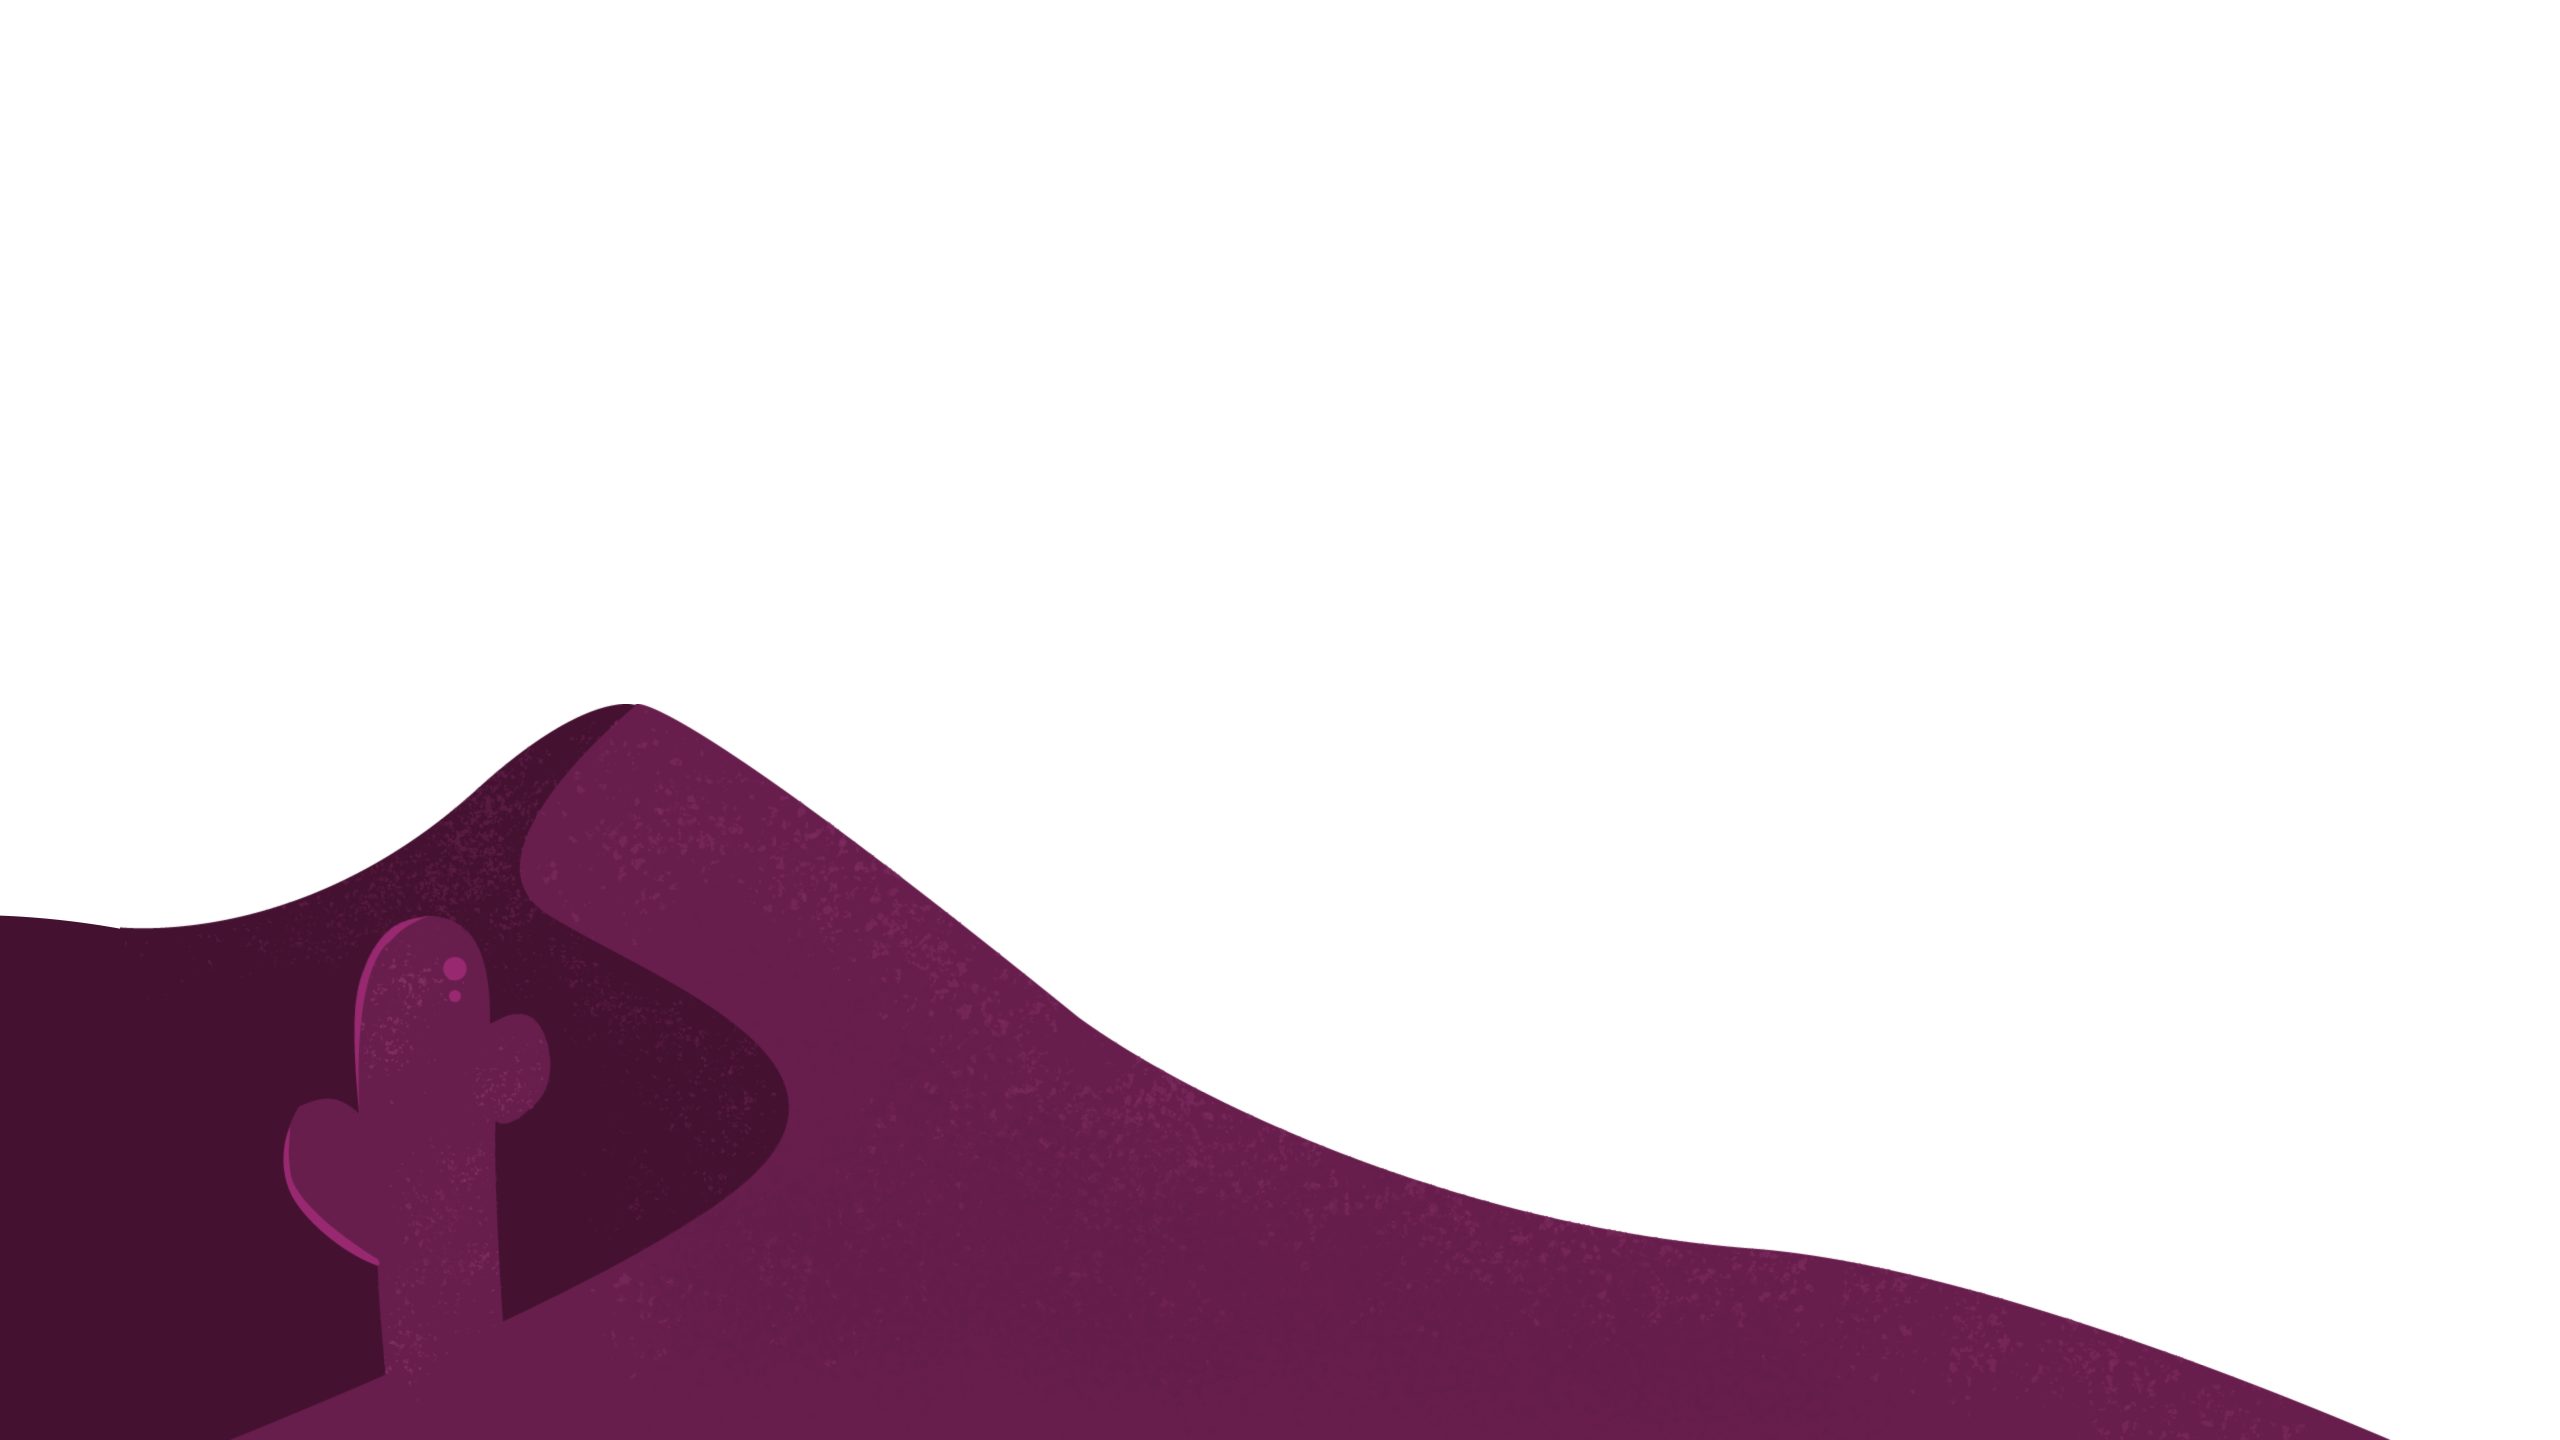
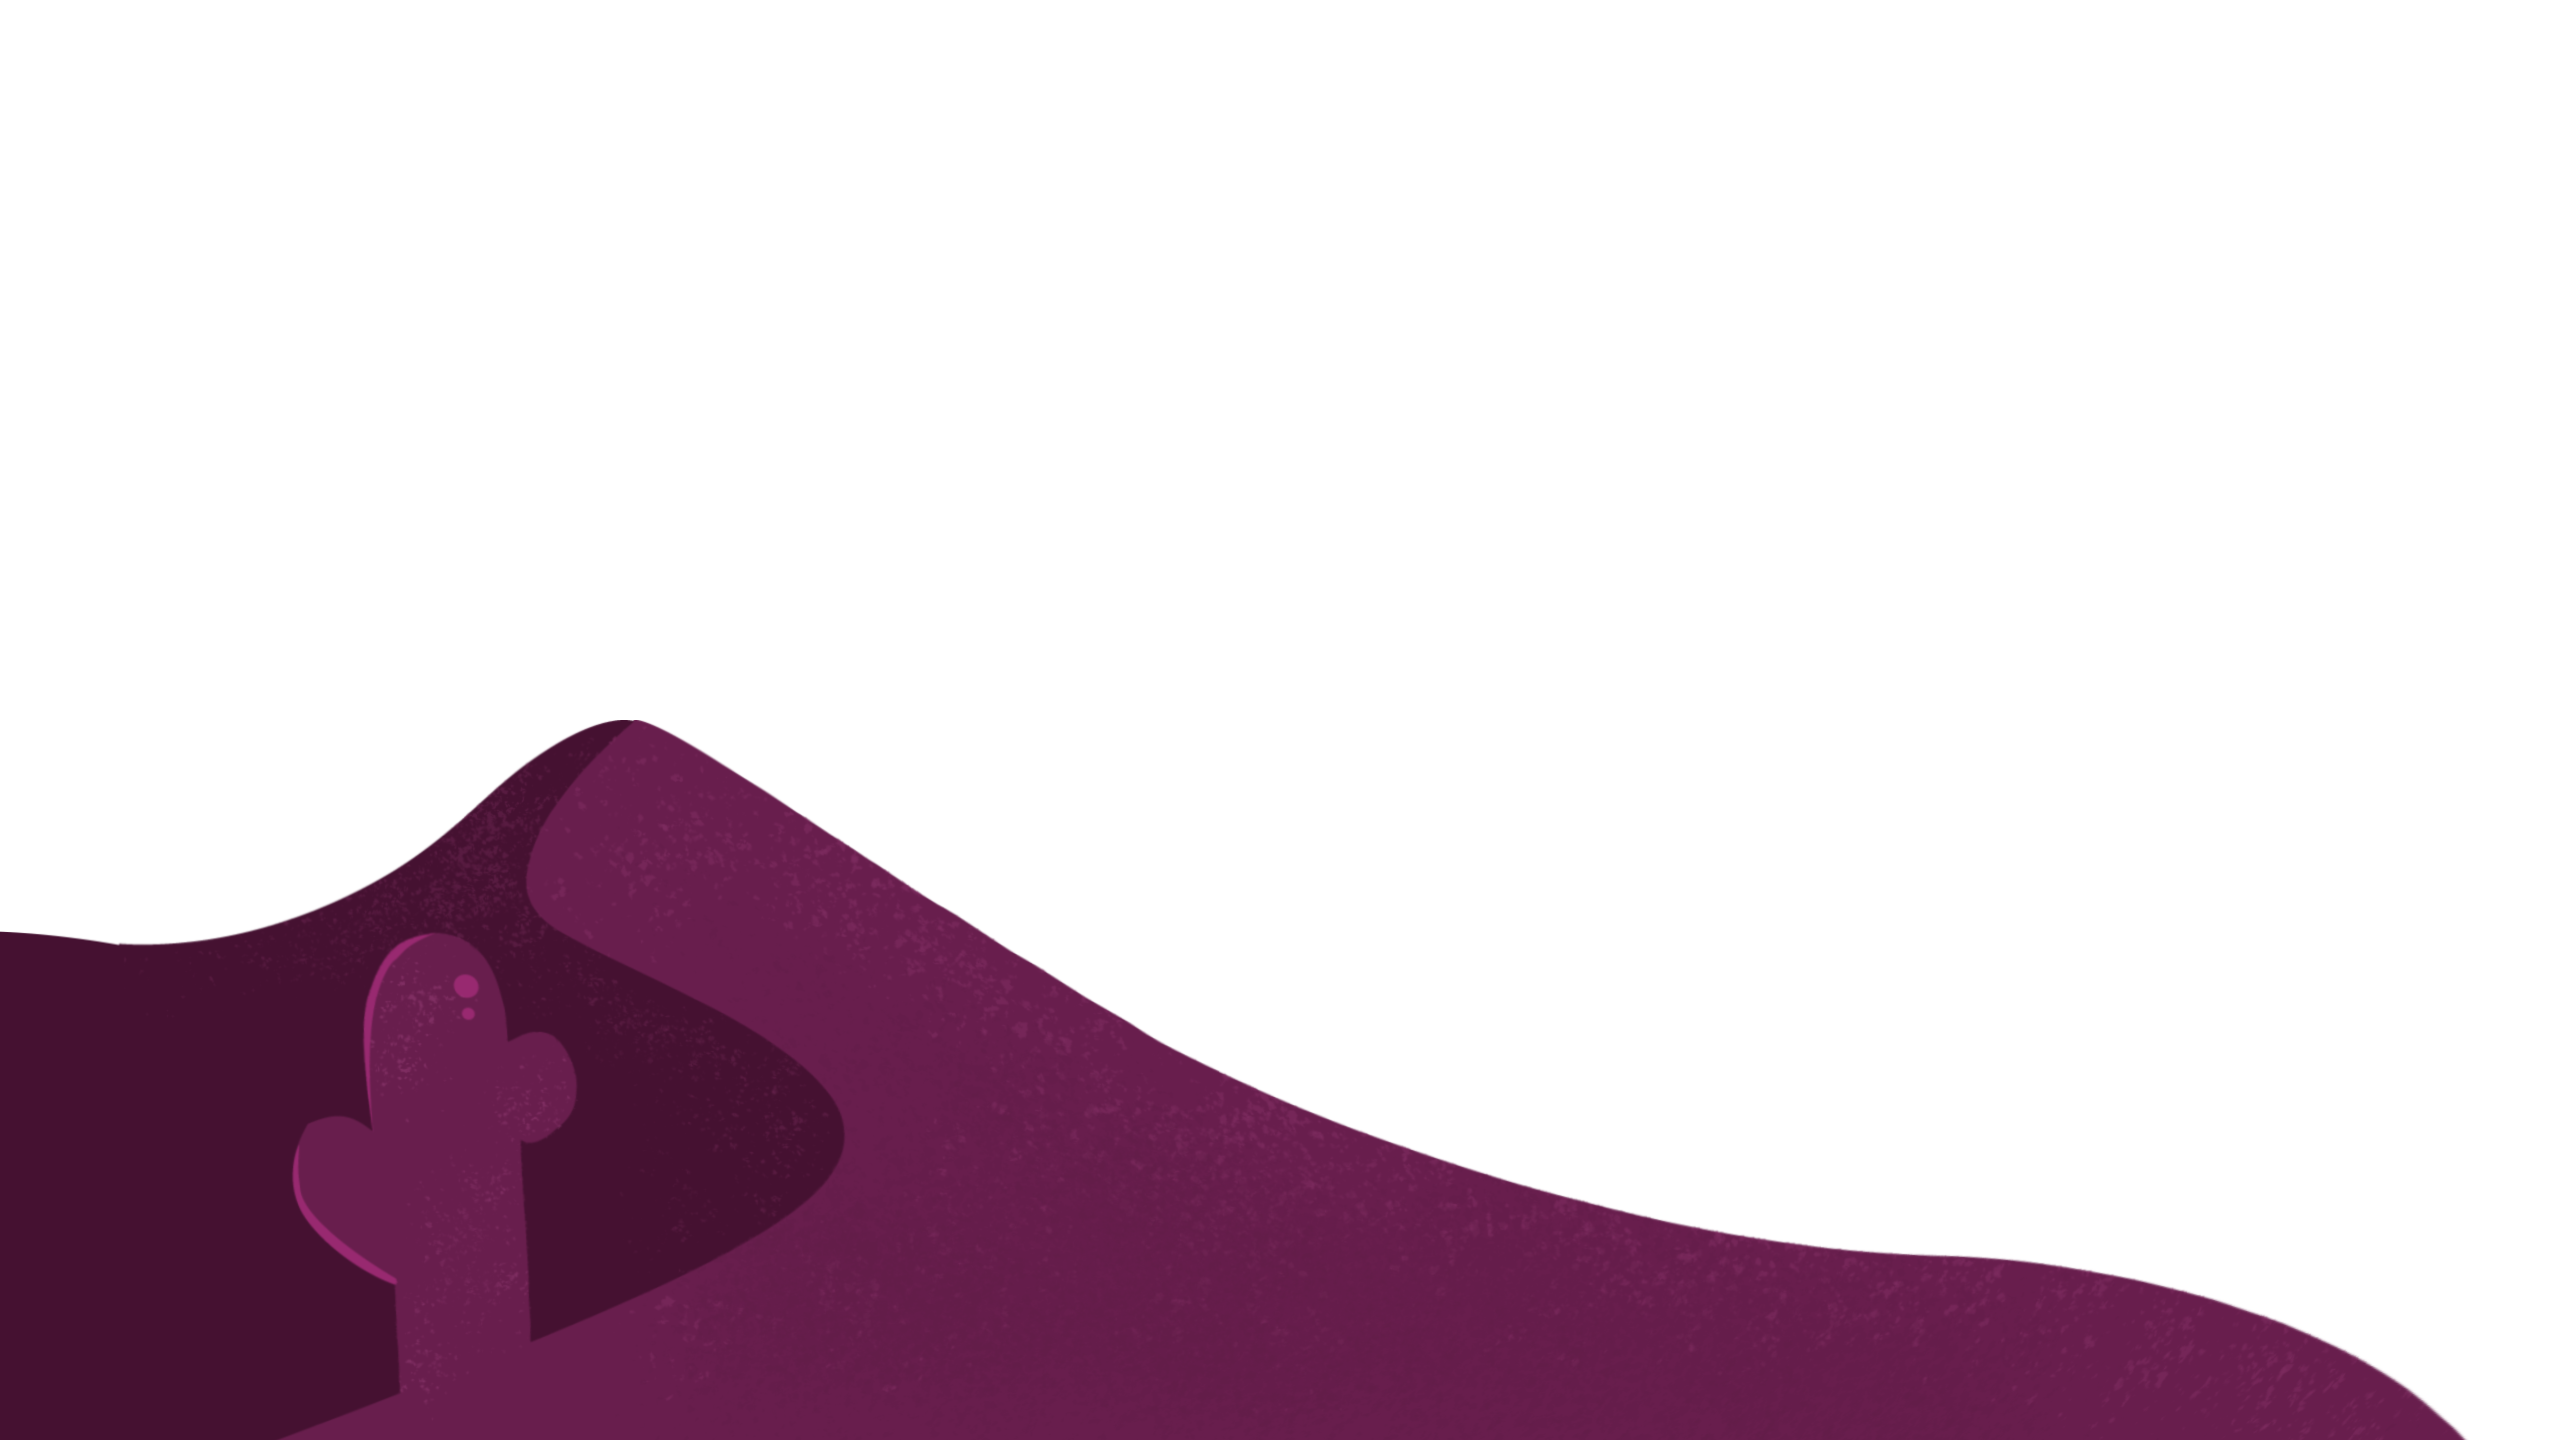
main70%

diff --git a/Portfolio-style.css b/Portfolio-style.css
@@ -4,8 +4,7 @@
 }
 
 body{
-    min-height: 100vh;
-    overflow-x: hidden;
+    overflow-x: auto;
 }
 
 
@@ -15,12 +14,12 @@ body{
     height: 120vh;
     width: 100%;
     background: linear-gradient(#9d235a,#e9d8e5);
-
+    overflow-x: hidden;
 }
 
 .top img{
     position: absolute;
-    width: 100%;
+    /* width:100%; */
     height: 100%;
     top: 0;
     left: 0;
@@ -33,22 +32,51 @@ body{
     width:  100%;
     background: linear-gradient(#681e4d,#0e070c);
 }
+.top img#mainCloud{
+    width:100%;
 
+}
 .top img#mainFont-Right{
-    transform: translateX(640px);
+    width:100%;
+    transform: translateX(550px);
 }
 .top img#mainFont-Left {
+    width:100%;
     transform: translateX(-550px);
 }
 .top img#mainBack{
+    width:100%;
     transform: translateY(-20px);
 }
+
+@media (max-width: 992px){
+    .top img#mainFont-Left {
+    width:200%;
+    transform: translateX(-950px);
+    }
+    .top img#mainFont-Right{
+        width:200%;
+        transform: translateX(550px);
+    }
+    .top img#mainBack{
+        width:100%;
+        transform: translateY(0px);
+    }
+    .top img#mainCloud{
+        width:200%;
+    
+    }
+}
+
+
 
 
 
 
 /* ----------介紹區塊---------- */
-
+.work{
+    overflow-x: hidden;
+}
 .work_bg{
     width: 100%;
     height: 70vh;
@@ -66,9 +94,11 @@ body{
 }
 .web{
     background-image: url(./img/Top-img/網頁-封面.png);
+    
 }
 .business{
     background-image: url(./img/Top-img/商業設計-封面.png);
+    
 }
 .graphic{
     background-image: url(./img/Top-img/平面設計-封面1.png);
@@ -85,7 +115,7 @@ body{
     display: flex;
     flex-direction: column;
     align-items: center;
-    padding-bottom: 30px;
+    padding-bottom: 20px;
 }
 .txt{
     color: aliceblue;
@@ -95,30 +125,29 @@ body{
     width: 60%;
     margin: auto;
     letter-spacing: 2px;
-    /* background-color: #52c03e; */
+    overflow-y: hidden;
 
 }
 .txt h3{
     width: 15%;
-    line-height: 50px;
-    font-size: 21px;
+    line-height: 30px;
+    font-size: 20px;
     font-weight: 600;
-    /* background-color: #de4747; */
     margin-top: 0px;
 
-
+    
 }
 .txt p{
     width: 80%;
-    font-size: 16px;
-    line-height: 40px;
+    font-size: 15px;
+    line-height: 30px;
     display: flex;
     align-items: start;
     margin-top: 0px;
-    margin-bottom: 50px;
-    /* background-color: #de4747; */
 }
-
+.web-intro{
+    padding-top: 20px;
+}
 .introduce a{
     width: 200px;
     height: 45px;
@@ -172,3 +201,85 @@ body{
     background-color: #9c9a9c;
     transition: all 0.1s ease;
 }
+
+/* oooooooooooooooooooo */
+@media (max-width: 1200px){
+    .title{
+        font-size: 95px;
+        letter-spacing: 2px;
+    }
+    .txt{
+        width: 80%;
+        flex-direction: column;
+    }
+    .txt h3{
+        width: 100%;
+        font-size: 22px;
+    }
+    .txt p{
+        width: 100%;
+        font-size: 17px;
+}
+}
+
+@media (max-width: 992px){
+    .title{
+        font-size: 80px;
+    }
+
+    .txt h3{
+        font-size: 20px;
+    }
+    .txt p{
+        width: 100%;
+        font-size: 15px;
+}
+}
+
+@media (max-width: 576px){
+    .title{
+        font-size: 85px;
+        margin-left: 10%;
+    }
+    .work_bg{
+        background-size:576px 350px; 
+    }
+    .txt h3{
+        font-size: 18px;
+    }
+    .txt p{
+        font-size: 14px;
+    }
+}
+@media (max-width: 450px){
+    .work_bg{
+        height: 60vh;}
+    .introduce{
+        height: 40vh;
+    }
+    .title{
+        font-size: 60px;
+        margin-left: 10%;
+    }
+    .work_bg{
+        background-size:550px 330px; 
+    }
+    .txt h3{
+        margin-bottom: 5px;
+        font-weight: 600;
+    }
+    .txt p{
+        line-height: 30px;
+        font-size: 13px;
+    }
+    .introduce a{
+        width: 150px;
+        height: 40px;
+    }
+    .introduce a p{
+        font-size: 17px;
+        transform: translate(15%,-35%);
+    }
+
+}
+

diff --git a/Portfolio.html b/Portfolio.html
@@ -28,9 +28,9 @@
 
     <section class="work">
         <div class="web work_bg">
-            <h1 class="title">WEB DESIGN</h1>
+            <h1 class="title">WEB DESIGN "</h1>
         </div>
-        <div class="introduce">
+        <div class="introduce web-intro">
             <div class="txt">
                 <h3>網頁設計 |</h3>
                 <p>可說是各企業、產品的行動網路名片，融合了設計、前端技術和創意，打造出具風格吸引力且能夠有效傳遞信息的網站。作品內容包含HTML、CSS、JavaScript、jQuery、Bootstrap、RWD 等應用。</p>
@@ -39,7 +39,7 @@
         </div>
 
         <div class="business work_bg">
-            <h1 class="title">BUSINESS DESIGN</h1>
+            <h1 class="title">BUSINESS DESIGN "</h1>
         </div>
         <div class="introduce">
             <div class="txt">
@@ -50,7 +50,7 @@
         </div>
 
         <div class="graphic work_bg">
-            <h1 class="title">GRAPHIC DESIGN</h1>
+            <h1 class="title">GRAPHIC DESIGN "</h1>
         </div>
         <div class="introduce">
             <div class="txt">
@@ -61,7 +61,7 @@
         </div>
 
         <div class="other work_bg">
-            <h1 class="title">OTHER WORKS</h1>
+            <h1 class="title">OTHER WORKS "</h1>
         </div>
         <div class="introduce">
             <div class="txt">

diff --git a/portfolio.js b/portfolio.js
@@ -5,8 +5,8 @@ let Left = document.getElementById('mainFont-Left');
 
 window.addEventListener('scroll', function(){
     let value = window.scrollY;
-    Cloud.style.left = value*0.25+'px';
-    Right.style.left = value*-0.7+'px';
-    Left.style.left = value*0.63+'px';
+    Cloud.style.left = value*-0.25+'px';
+    Right.style.left = value*-0.6+'px';
+    Left.style.left = value*0.6+'px';
     Back.style.top = value*-0.1+'px';
 })
